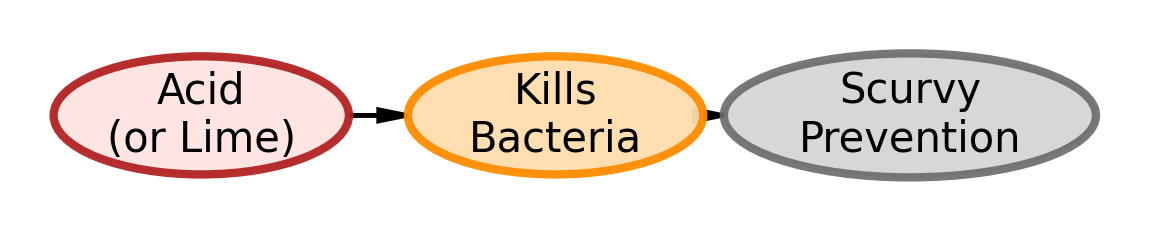
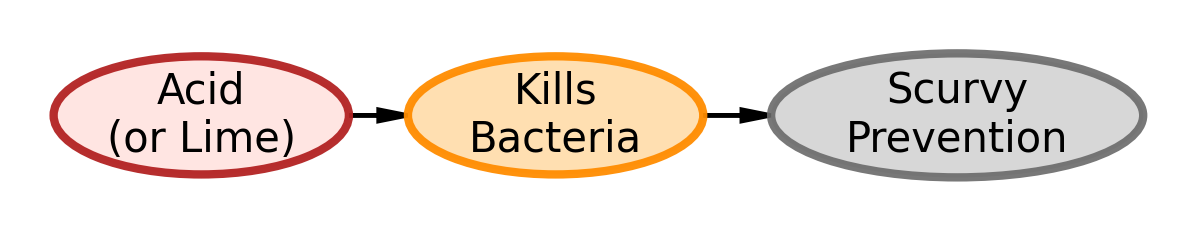
changed x axis to fix arrow visibility

Changed region(s): [[0.0305, 0.2121, 0.9748, 0.7879], [0.7311, 0.303, 0.8834, 0.4848]]

diff --git a/index.html b/index.html
@@ -221,7 +221,7 @@ Ready to create beautiful DAGs!</code></pre>
 <span id="cb3-14"><a href="#cb3-14" aria-hidden="true" tabindex="-1"></a>         <span class="st">'alpha'</span>: <span class="fl">0.95</span>,</span>
 <span id="cb3-15"><a href="#cb3-15" aria-hidden="true" tabindex="-1"></a>       })</span>
 <span id="cb3-16"><a href="#cb3-16" aria-hidden="true" tabindex="-1"></a></span>
-<span id="cb3-17"><a href="#cb3-17" aria-hidden="true" tabindex="-1"></a>pgm.add_node(<span class="st">"scurvy"</span>, <span class="st">"Scurvy</span><span class="ch">\n</span><span class="st">Prevention"</span> <span class="op">+</span> <span class="vs">r" </span><span class="dv">$</span><span class="kw">(</span><span class="vs">Y</span><span class="kw">)</span><span class="dv">$</span><span class="vs">"</span>, <span class="fl">3.25</span>, <span class="dv">1</span>,</span>
+<span id="cb3-17"><a href="#cb3-17" aria-hidden="true" tabindex="-1"></a>pgm.add_node(<span class="st">"scurvy"</span>, <span class="st">"Scurvy</span><span class="ch">\n</span><span class="st">Prevention"</span> <span class="op">+</span> <span class="vs">r" </span><span class="dv">$</span><span class="kw">(</span><span class="vs">Y</span><span class="kw">)</span><span class="dv">$</span><span class="vs">"</span>, <span class="dv">5</span>, <span class="dv">1</span>,</span>
 <span id="cb3-18"><a href="#cb3-18" aria-hidden="true" tabindex="-1"></a>       aspect<span class="op">=</span><span class="dv">3</span>, scale<span class="op">=</span><span class="fl">1.05</span>,</span>
 <span id="cb3-19"><a href="#cb3-19" aria-hidden="true" tabindex="-1"></a>       plot_params<span class="op">=</span>{</span>
 <span id="cb3-20"><a href="#cb3-20" aria-hidden="true" tabindex="-1"></a>         <span class="st">'facecolor'</span>: <span class="st">'lightblue'</span>,</span>
@@ -237,7 +237,7 @@ Ready to create beautiful DAGs!</code></pre>
 <div class="cell-output cell-output-display">
 <div>
 <figure class="figure">
-<p><img src="index_files/figure-html/dag-1-1747-output-1.png" id="dag-1-1747" width="505" height="115" class="figure-img"></p>
+<p><img src="index_files/figure-html/dag-1-1747-output-1.png" id="dag-1-1747" width="712" height="115" class="figure-img"></p>
 </figure>
 </div>
 </div>
@@ -273,7 +273,7 @@ Ready to create beautiful DAGs!</code></pre>
 <span id="cb4-22"><a href="#cb4-22" aria-hidden="true" tabindex="-1"></a>         <span class="st">'alpha'</span>: <span class="fl">0.95</span>,</span>
 <span id="cb4-23"><a href="#cb4-23" aria-hidden="true" tabindex="-1"></a>       })</span>
 <span id="cb4-24"><a href="#cb4-24" aria-hidden="true" tabindex="-1"></a></span>
-<span id="cb4-25"><a href="#cb4-25" aria-hidden="true" tabindex="-1"></a>pgm.add_node(<span class="st">"prevent"</span>, <span class="st">"Scurvy</span><span class="ch">\n</span><span class="st">Prevention"</span>, <span class="dv">4</span>, <span class="dv">1</span>,</span>
+<span id="cb4-25"><a href="#cb4-25" aria-hidden="true" tabindex="-1"></a>pgm.add_node(<span class="st">"prevent"</span>, <span class="st">"Scurvy</span><span class="ch">\n</span><span class="st">Prevention"</span>, <span class="fl">4.2</span>, <span class="dv">1</span>,</span>
 <span id="cb4-26"><a href="#cb4-26" aria-hidden="true" tabindex="-1"></a>       aspect<span class="op">=</span><span class="dv">3</span>, scale<span class="op">=</span><span class="fl">1.05</span>,</span>
 <span id="cb4-27"><a href="#cb4-27" aria-hidden="true" tabindex="-1"></a>       plot_params<span class="op">=</span>{</span>
 <span id="cb4-28"><a href="#cb4-28" aria-hidden="true" tabindex="-1"></a>         <span class="st">'facecolor'</span>: <span class="st">'lightgray'</span>,</span>
@@ -290,7 +290,7 @@ Ready to create beautiful DAGs!</code></pre>
 <div class="cell-output cell-output-display">
 <div>
 <figure class="figure">
-<p><img src="index_files/figure-html/dag-2-misguided-output-1.png" id="dag-2-misguided" width="574" height="115" class="figure-img"></p>
+<p><img src="index_files/figure-html/dag-2-misguided-output-1.png" id="dag-2-misguided" width="598" height="115" class="figure-img"></p>
 </figure>
 </div>
 </div>
@@ -326,7 +326,7 @@ Ready to create beautiful DAGs!</code></pre>
 <span id="cb5-22"><a href="#cb5-22" aria-hidden="true" tabindex="-1"></a>         <span class="st">'alpha'</span>: <span class="fl">0.95</span>,</span>
 <span id="cb5-23"><a href="#cb5-23" aria-hidden="true" tabindex="-1"></a>       })</span>
 <span id="cb5-24"><a href="#cb5-24" aria-hidden="true" tabindex="-1"></a></span>
-<span id="cb5-25"><a href="#cb5-25" aria-hidden="true" tabindex="-1"></a>pgm.add_node(<span class="st">"scurvy"</span>, <span class="st">"Scurvy</span><span class="ch">\n</span><span class="st">Prevention"</span> <span class="op">+</span> <span class="vs">r" </span><span class="dv">$</span><span class="kw">(</span><span class="vs">Y</span><span class="kw">)</span><span class="dv">$</span><span class="vs">"</span>, <span class="fl">4.5</span>, <span class="dv">1</span>,</span>
+<span id="cb5-25"><a href="#cb5-25" aria-hidden="true" tabindex="-1"></a>pgm.add_node(<span class="st">"scurvy"</span>, <span class="st">"Scurvy</span><span class="ch">\n</span><span class="st">Prevention"</span> <span class="op">+</span> <span class="vs">r" </span><span class="dv">$</span><span class="kw">(</span><span class="vs">Y</span><span class="kw">)</span><span class="dv">$</span><span class="vs">"</span>, <span class="fl">4.7</span>, <span class="dv">1</span>,</span>
 <span id="cb5-26"><a href="#cb5-26" aria-hidden="true" tabindex="-1"></a>       aspect<span class="op">=</span><span class="dv">3</span>, scale<span class="op">=</span><span class="fl">1.05</span>,</span>
 <span id="cb5-27"><a href="#cb5-27" aria-hidden="true" tabindex="-1"></a>       plot_params<span class="op">=</span>{</span>
 <span id="cb5-28"><a href="#cb5-28" aria-hidden="true" tabindex="-1"></a>         <span class="st">'facecolor'</span>: <span class="st">'thistle'</span>,</span>
@@ -343,7 +343,7 @@ Ready to create beautiful DAGs!</code></pre>
 <div class="cell-output cell-output-display">
 <div>
 <figure class="figure">
-<p><img src="index_files/figure-html/dag-3-1928-output-1.png" id="dag-3-1928" width="633" height="118" class="figure-img"></p>
+<p><img src="index_files/figure-html/dag-3-1928-output-1.png" id="dag-3-1928" width="657" height="118" class="figure-img"></p>
 </figure>
 </div>
 </div>
